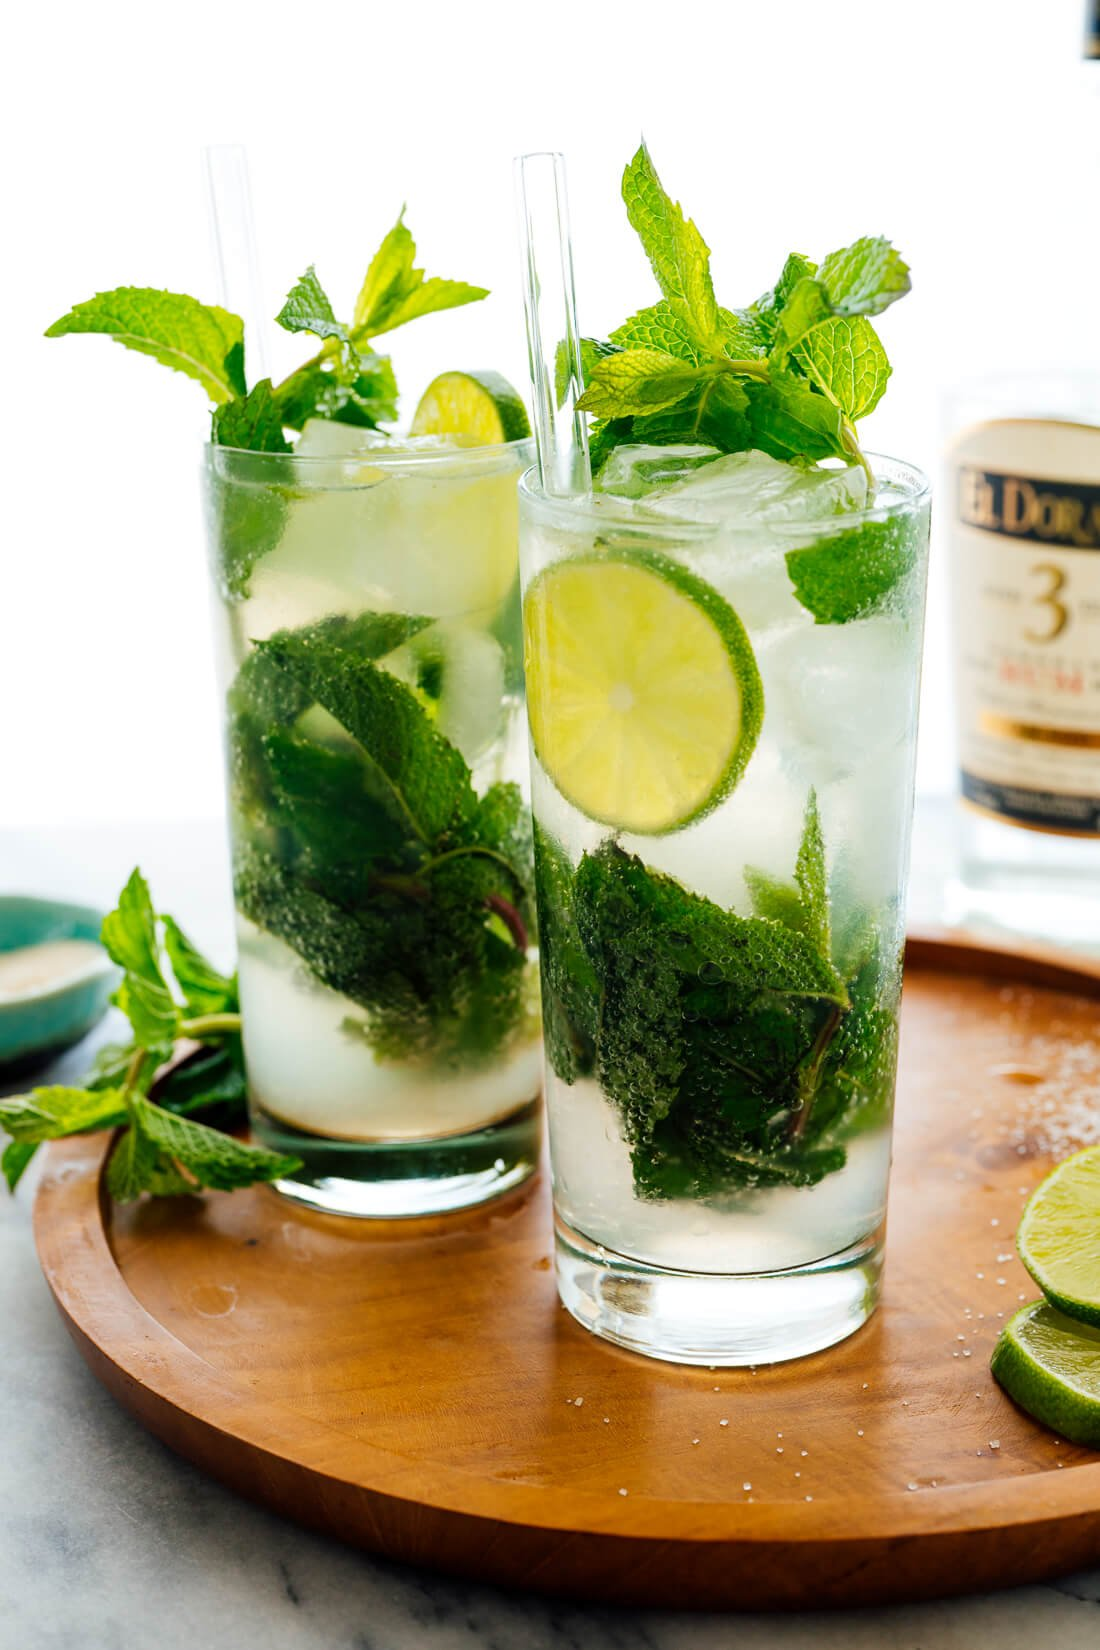
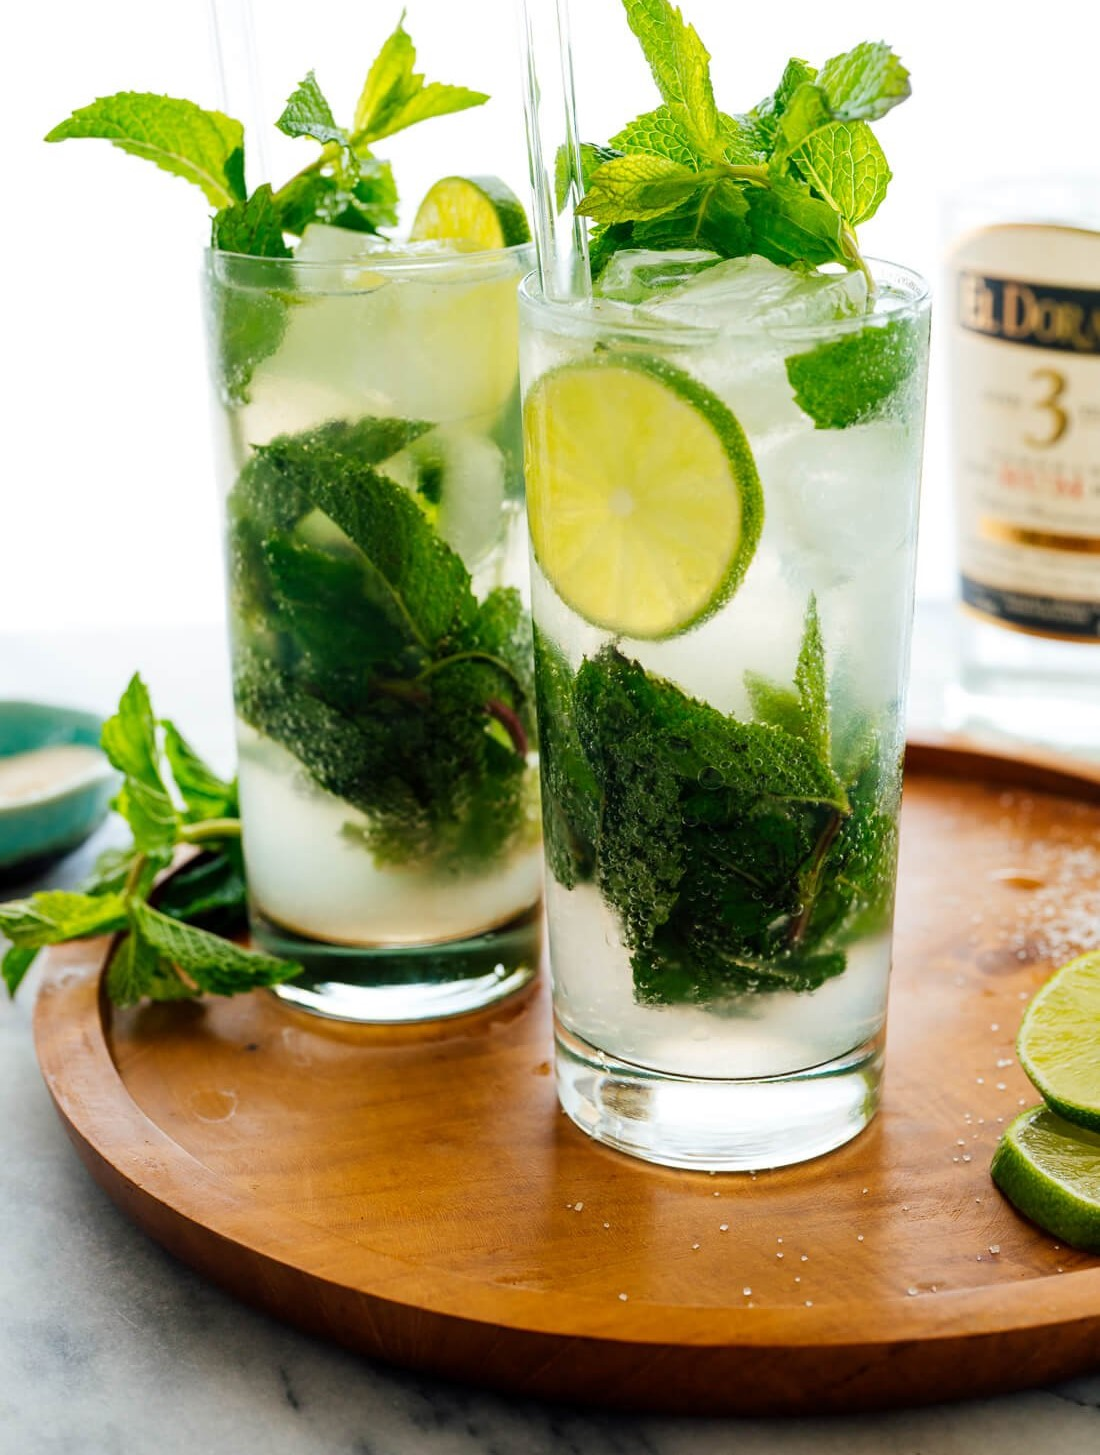
added mojito

diff --git a/bar_menu.html b/bar_menu.html
@@ -80,6 +80,18 @@
 								</div>
 							</section>
 
+							<section class="panel spotlight medium right" id="first">
+								<div class="content span-7">
+									<h2 class="major">Mojito</h2>
+									<p>Rum, mint, lime, sugar</p>
+								</div>
+								<div class="image filtered tinted" data-position="top left">
+									<img src="images_new/mojito.jpg" alt="" />
+								</div>
+							</section>
+
+
+
 							
 
 							
